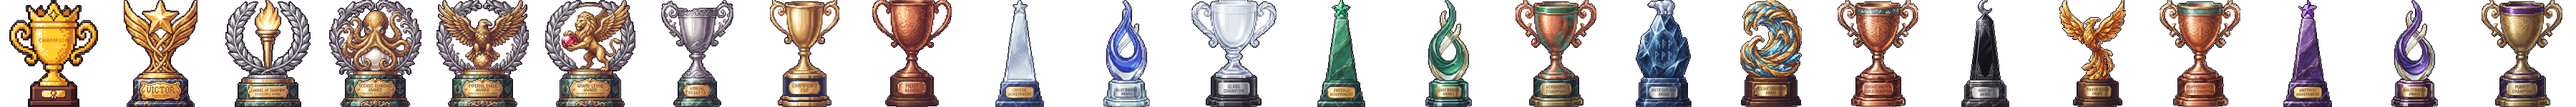
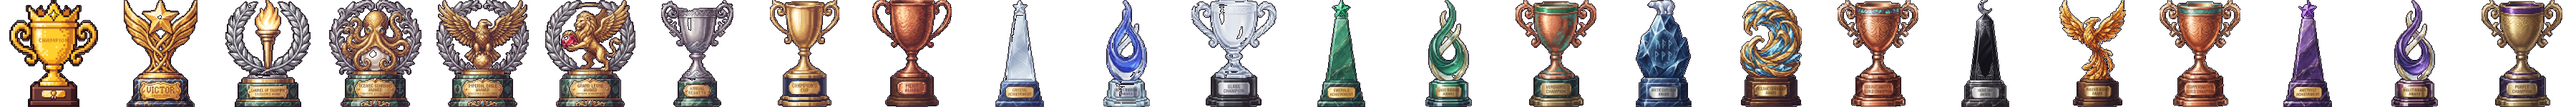
Trofea: wycięte wnętrza uszu i prześwity
Claude-Session: https://claude.ai/code/session_01Y9XNosS9qXxorLv9Jh2D4n

Changed region(s): [[0.2178, 0.4533, 0.2489, 0.48]]

diff --git a/index.html b/index.html
@@ -414,7 +414,7 @@
   #trofea .tbox { position: absolute; left: 50%; top: 50%; width: min(100vw, 179.1vh); aspect-ratio: 2576 / 1438; transform: translate(-50%, -50%); }
   #trofea .tbox > img { width: 100%; height: 100%; display: block; image-rendering: pixelated; }
   #trofea .tro { position: absolute; display: flex; align-items: flex-end; justify-content: center; cursor: pointer; }
-  #trofea .tro i { display: block; height: 92%; aspect-ratio: 1; background: url(trofea.png) 0 0 / 2400% 100% no-repeat; image-rendering: pixelated; filter: drop-shadow(0 3px 0 rgba(0,0,0,.6)); }
+  #trofea .tro i { display: block; height: 92%; aspect-ratio: 1; background: url(trofea.png?v=2) 0 0 / 2400% 100% no-repeat; image-rendering: pixelated; filter: drop-shadow(0 3px 0 rgba(0,0,0,.6)); }
   #trofea .tro.off i { filter: brightness(0) drop-shadow(0 0 1px rgba(255,255,255,.35)); opacity: .55; }
   #trofea .tro.new i { animation: tronew 0.5s steps(2) 6; } @keyframes tronew { 50% { filter: brightness(1.8) drop-shadow(0 0 6px #ffe14a); } }
   #trofea .tback { position: absolute; left: 1.5%; top: 2.5%; padding: 8px 12px; font: 10px "Press Start 2P", monospace; color: #fff; background: #1a1540; border: 3px solid #7a6ad8; cursor: pointer; }
